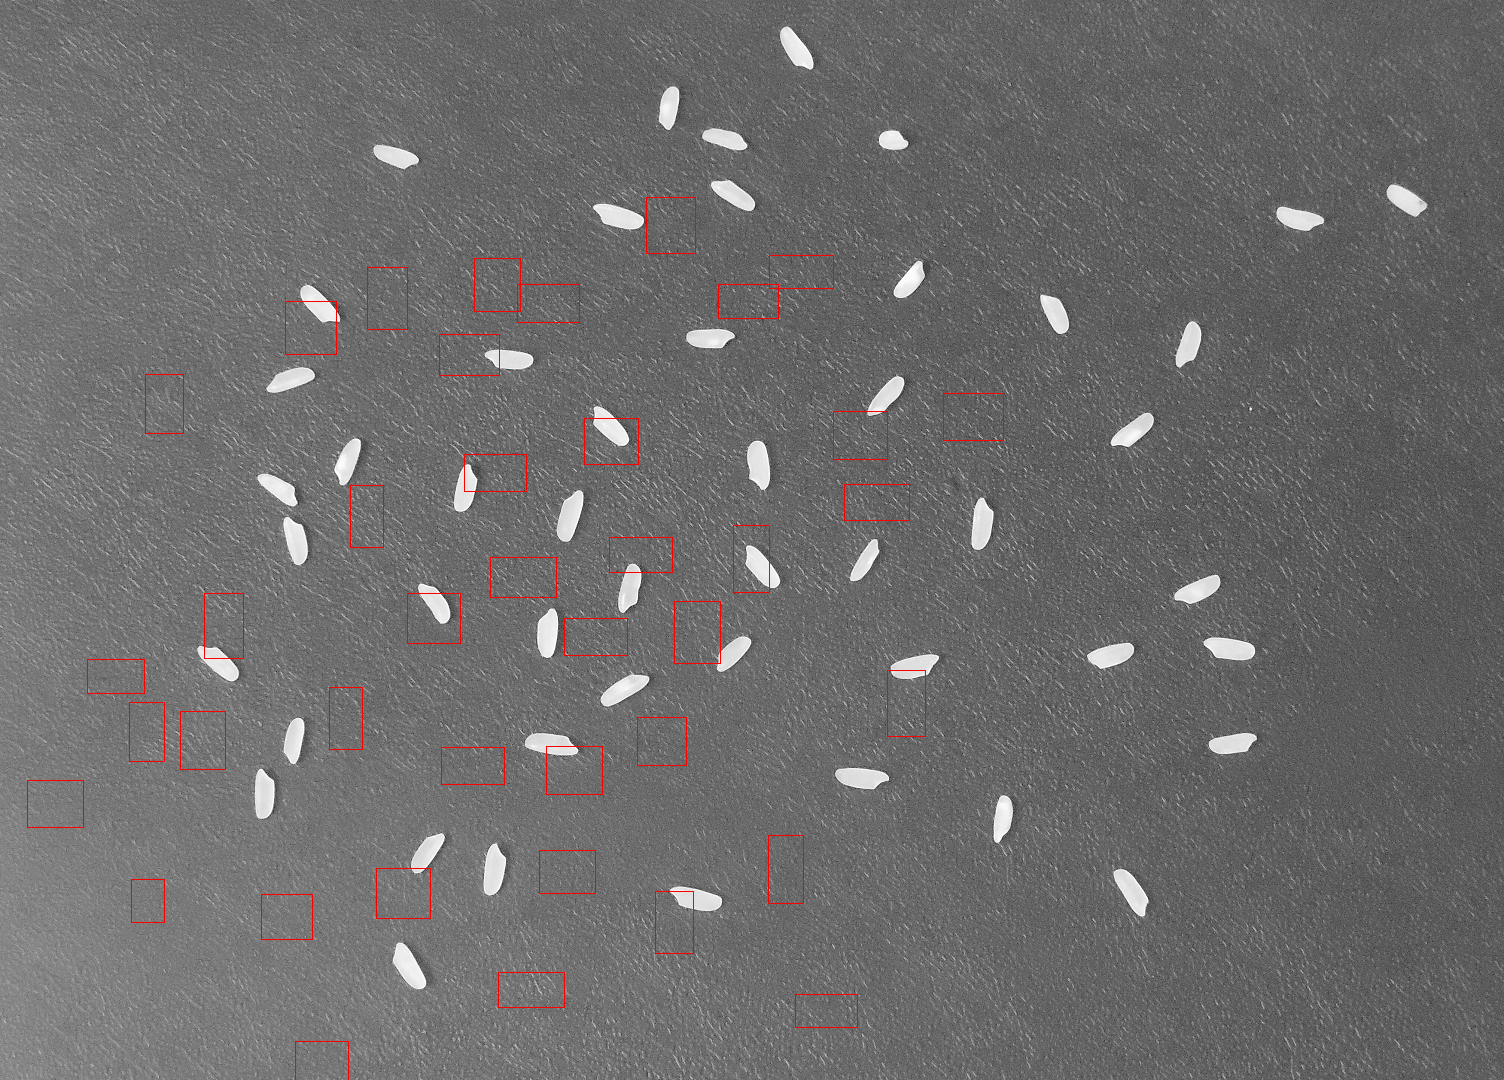
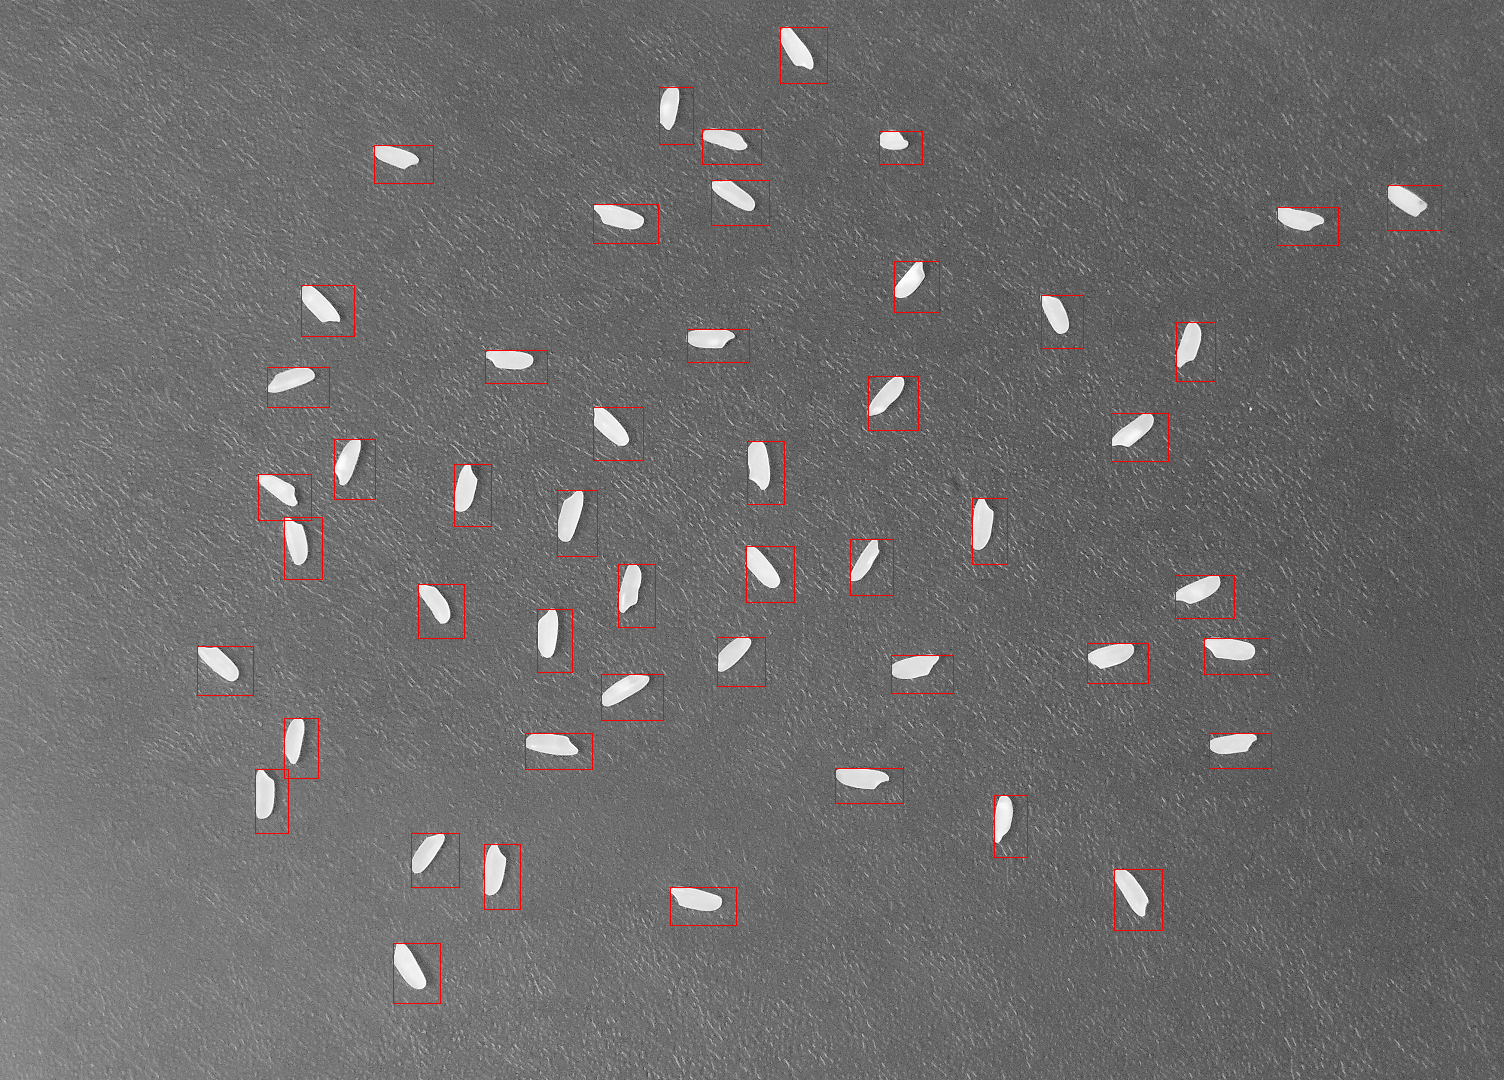
rotação box

diff --git a/main.py b/main.py
@@ -157,10 +157,10 @@ def rotula (img, largura_min, altura_min, n_pixels_min):
                 component = {
                     "label": label,
                     "n_pixels": info['n_pixels'],
-                    'T': info['T'],
-                    'L': info['L'],
-                    'B': info['B'],
-                    'R': info['R']
+                    'T': info['R'],
+                    'L': info['B'],
+                    'B': info['L'],
+                    'R': info['T']
                 }
                 if (component['n_pixels'] > 10):
                     outputList.append(component)
